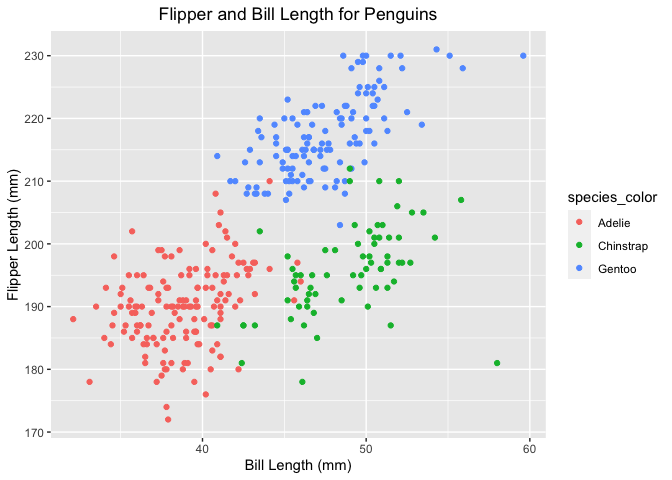
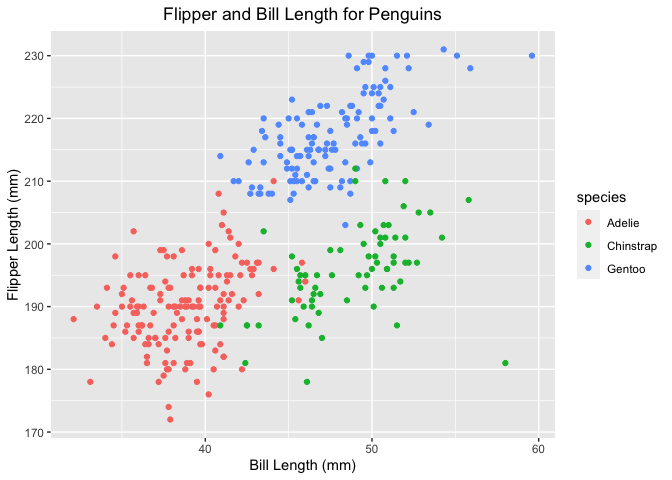
knit the rmd file. update md and scatterplot. Final ver.

diff --git a/p8105_hw1_pw2551.md b/p8105_hw1_pw2551.md
@@ -1,4 +1,4 @@
-p8105\_hw1\_pw2551
+p8105_hw1_pw2551
 ================
 Paula Wu
 9/23/2021
@@ -13,7 +13,7 @@ library(tidyverse)
 Create a data frame with variables:
 
 ``` r
-set.seed(1) 
+set.seed(1)
 p1_df = tibble(
   vec_numeric = rnorm(10),
   vec_logical = vec_numeric > 0,
@@ -116,12 +116,12 @@ penguins
     ## 10 Adelie  Torgersen           42            20.2               190        4250
     ## # … with 334 more rows, and 2 more variables: sex <fct>, year <int>
 
--   The variable names are: species, island, bill\_length\_mm,
-    bill\_depth\_mm, flipper\_length\_mm, body\_mass\_g, sex, year.
-    Among these 8 attributes, “bill\_length\_mm”, “bill\_depth\_mm”,
-    “flipper\_length\_mm”, and “body\_mass\_g” look important and
-    meaningful. The mean values for these variables will be calculated
-    in r code chunks below. <br>
+-   The variable names are: species, island, bill_length_mm,
+    bill_depth_mm, flipper_length_mm, body_mass_g, sex, year. Among
+    these 8 attributes, “bill_length_mm”, “bill_depth_mm”,
+    “flipper_length_mm”, and “body_mass_g” look important and meaningful
+    to me. The values, specifically the mean values, for these important
+    variables will be calculated in r code chunks below. <br>
 
 ``` r
 # I get rid of the Null values
@@ -133,23 +133,21 @@ c(bill_l, bill_d, flip_l, body_m)
 ## [1]   43.92193   17.15117  200.91520 4201.75439
 ```
 
--   Thus, the means, rounded to 2 decimal places, for “bill\_length\_mm”
-    is 43.92, for “bill\_depth\_mm” is 17.15, for “flipper\_length\_mm”
-    is 200.92, and for “body\_mass\_g” is 4201.75. <br>
+-   Thus, the means, rounded to 2 decimal places, for “bill_length_mm”
+    is 43.92, for “bill_depth_mm” is 17.15, for “flipper_length_mm” is
+    200.92, and for “body_mass_g” is 4201.75. <br>
 -   For this penguins data set, there are 344 rows and 8 columns. <br>
--   The flipper length (mm) is mentioned above, which is 200.92. <br>
+-   The mean of flipper length (mm) is mentioned above, which is 200.92.
+    <br>
 
 To plot the scatterplot using `ggplot`:
 
 ``` r
-bill_len = pull(penguins, bill_length_mm)
-flip_len = pull(penguins, flipper_length_mm)
-species_color = pull(penguins, species)
-ggplot(penguins, aes(x = bill_len, y = flip_len, col = species_color)) + 
+ggplot(penguins, aes(x = bill_length_mm, y = flipper_length_mm, col = species)) + 
   geom_point() + 
-  ggtitle("Flipper and Bill Length for Penguins") +
+  ggtitle("Flipper and Bill Length for Penguins") + 
   theme(plot.title = element_text(hjust = 0.5)) +
-  labs(y = "Flipper Length (mm)",x = "Bill Length (mm)")
+  labs(y = "Flipper Length (mm)", x = "Bill Length (mm)")
 ```
 
     ## Warning: Removed 2 rows containing missing values (geom_point).
